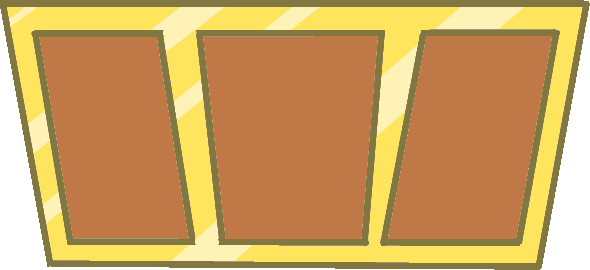
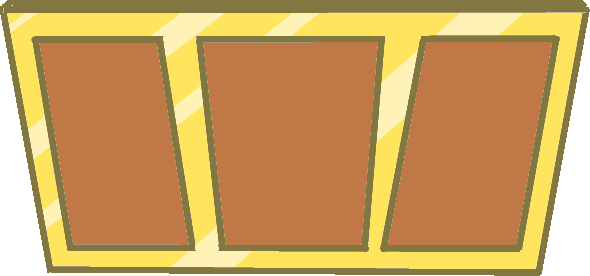
Fixed "front lip of top behind pony" bug
Also hardcoded the chest_inactive chest button to be right on the button

diff --git a/main.js b/main.js
@@ -916,7 +916,7 @@ function title_screen(){//title screen
 }
 var chest = new Chest();
 function chest_inactive(){
-	btnOpen = new Button ("button_chest",chest.X-54,chest.Y-44,"chest_opening");
+	btnOpen = new Button ("button_chest",chest.X-54,chest.Y-248,"chest_opening");
 	btnPony = new Button ("button_pony",0,0,"pony_info");
 	if (btnOpen.checkClick(mouseX, mouseY, playerFiring)){
 		chest.playAnimation();//tells the chest to start playing the animation
@@ -940,7 +940,7 @@ function chest_opening(){
 	chest.draw();
 };
 function chest_pony_up(){//he pony moving up out of the chest
-	//newPony.velY -= 0.25;
+	newPony.velY -= 0.25;
 	newPony.move();
 	if (newPony.getBottom() <= chest.getFrontTop()){
 		newPony.velY = 0;
